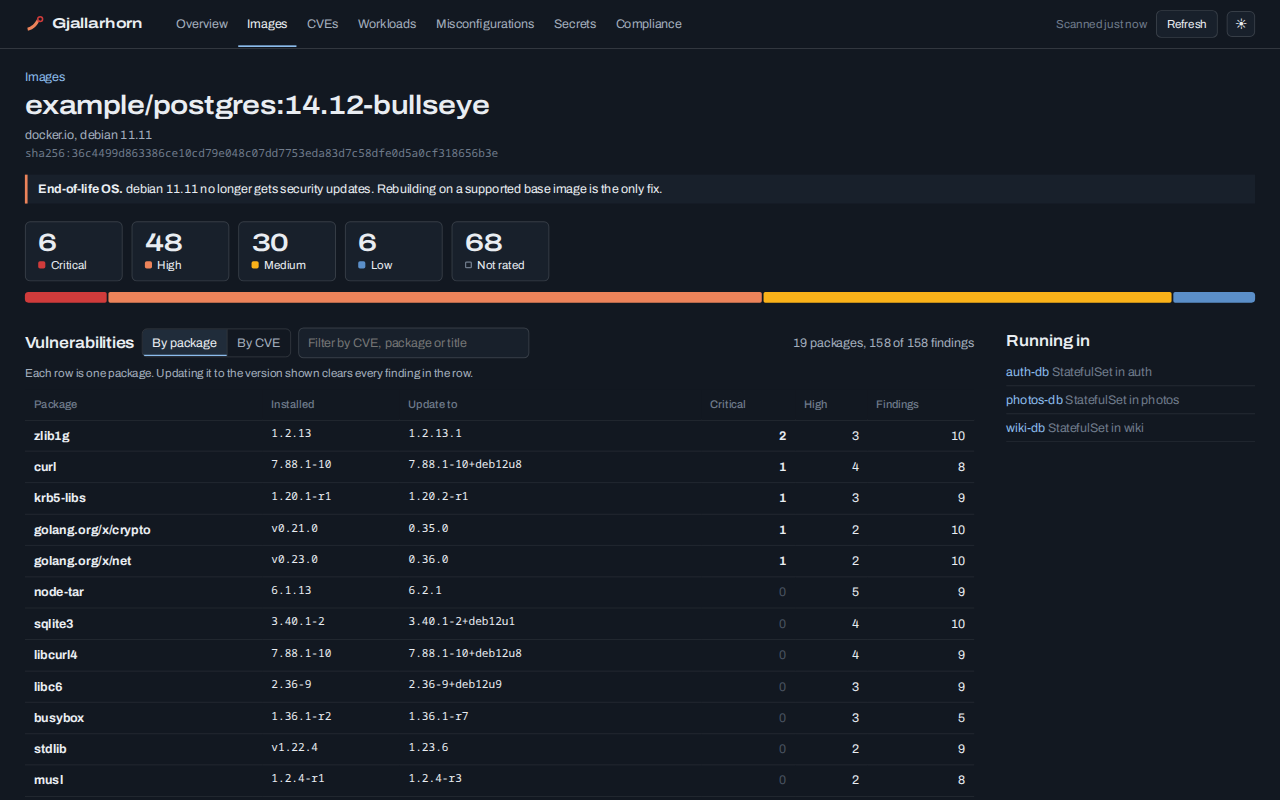
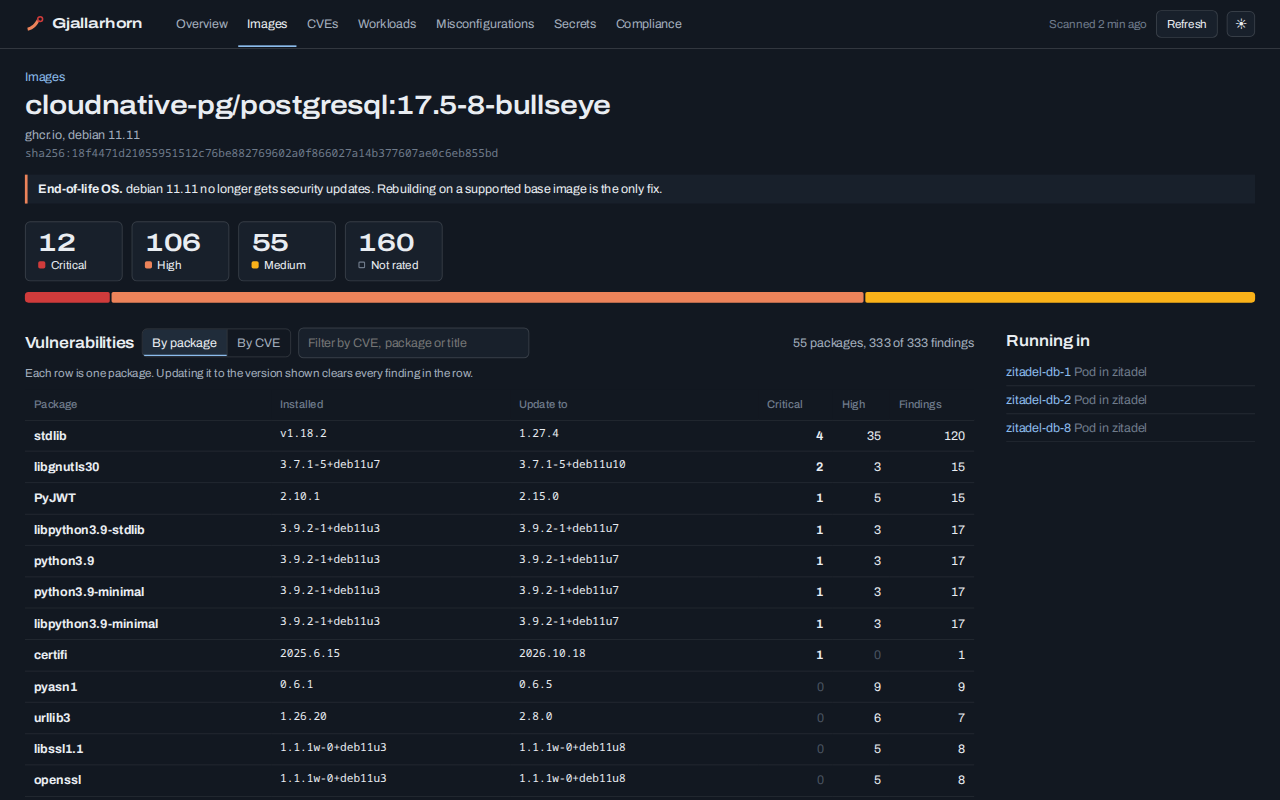
Show screenshots from a real cluster in the docs (#2)

diff --git a/fixtures/generate_demo.py b/fixtures/generate_demo.py
@@ -1,5 +1,5 @@
 #!/usr/bin/env python3
-"""Write fixtures/demo.json: a made-up homelab for screenshots and local work.
+"""Write fixtures/demo.json: a made-up homelab for demos and local work.
 
 Image names are fictional (ghcr.io/example/...) and CVE ids are invented, so
 nothing here describes real software. Publication dates are relative to the

diff --git a/README.md b/README.md
@@ -2,9 +2,9 @@
 
 Gjallarhorn is a read-only dashboard over the reports the [Trivy Operator](https://github.com/aquasecurity/trivy-operator) writes to a Kubernetes cluster. It answers one question first: which few images hold most of your critical vulnerabilities, so you know what to update next.
 
-![The Gjallarhorn overview with demo data: five images carry 27 of 31 critical vulnerabilities, ranked, with totals by severity and namespaces below](docs/images/overview.png)
+![The Gjallarhorn overview on a homelab cluster: five images carry 63 of 111 critical vulnerabilities, ranked, with totals by severity and namespaces below](docs/images/overview.png)
 
-It is one Rust binary that reads the `aquasecurity.github.io` reports, aggregates them in memory and serves a JSON API plus an embedded Svelte frontend. The screenshot uses the made-up data in `fixtures/demo.json`.
+It is one Rust binary that reads the `aquasecurity.github.io` reports, aggregates them in memory and serves a JSON API plus an embedded Svelte frontend.
 
 ## Features
 

diff --git a/docs/introduction.md b/docs/introduction.md
@@ -2,7 +2,7 @@
 
 Gjallarhorn is a read-only dashboard over the reports the [Trivy Operator](https://github.com/aquasecurity/trivy-operator) writes to a Kubernetes cluster. It answers one question first: which few images hold most of your critical vulnerabilities, so you know what to update next.
 
-![The Gjallarhorn overview with demo data: a headline saying five images carry 27 of 31 critical vulnerabilities, the five images ranked, totals by severity, and namespaces below](images/overview.png)
+![The Gjallarhorn overview on a homelab cluster: a headline saying five images carry 63 of 111 critical vulnerabilities, the five images ranked, totals by severity, and namespaces below](images/overview.png)
 
 It is one Rust binary. It reads the `aquasecurity.github.io` reports every two minutes, aggregates them in memory and serves a JSON API and an embedded Svelte frontend. On a cluster with about 130 images and 3,000 distinct CVEs one read takes about a second and peaks at about 170 MiB of memory.
 

diff --git a/docs/overview.md b/docs/overview.md
@@ -4,7 +4,7 @@ The overview is built to tell you what to do next, not only how bad things are.
 
 ## Fix first
 
-The headline counts the critical findings in the five images that hold the most of them, out of all critical findings in the cluster: "Five images carry 27 of your 31 critical vulnerabilities." When there are no critical findings it uses high ones instead.
+The headline counts the critical findings in the five images that hold the most of them, out of all critical findings in the cluster: "Five images carry 63 of your 111 critical vulnerabilities." When there are no critical findings it uses high ones instead.
 
 The bar under the headline is every critical finding in the cluster. The numbered segments are the five images, sized by their share; the hatched part is everything else. Each segment and each row of the list opens that image.
 

diff --git a/docs/development.md b/docs/development.md
@@ -6,7 +6,7 @@ cargo test
 cargo run -- --bind 127.0.0.1:18080
 ```
 
-With a kubeconfig, Gjallarhorn reads that cluster. `--fixtures fixtures/demo.json` serves a made-up homelab instead, with no cluster at all; the screenshots in these docs come from it. `python3 fixtures/generate_demo.py` writes a fresh one, with publication dates relative to today.
+With a kubeconfig, Gjallarhorn reads that cluster. `--fixtures fixtures/demo.json` serves a made-up homelab instead, with no cluster at all. `python3 fixtures/generate_demo.py` writes a fresh one, with publication dates relative to today.
 
 For frontend work, run the backend on port 18080 and `npm run dev` in `web/`; Vite proxies `/api` to it.
 

diff --git a/docs/images.md b/docs/images.md
@@ -6,7 +6,7 @@ One row per image digest, sorted by critical findings. Filters: free text (image
 
 ## An image
 
-![An image page with demo data: severity counts, an end-of-life warning, and findings grouped by package with the version to update to](images/image.png)
+![An image page: severity counts, an end-of-life warning, and findings grouped by package with the version to update to](images/image.png)
 
 The page shows the registry, OS and digest, a warning when the OS is end of life, and the counts by severity. Clicking a count filters the list below to that severity.
 
